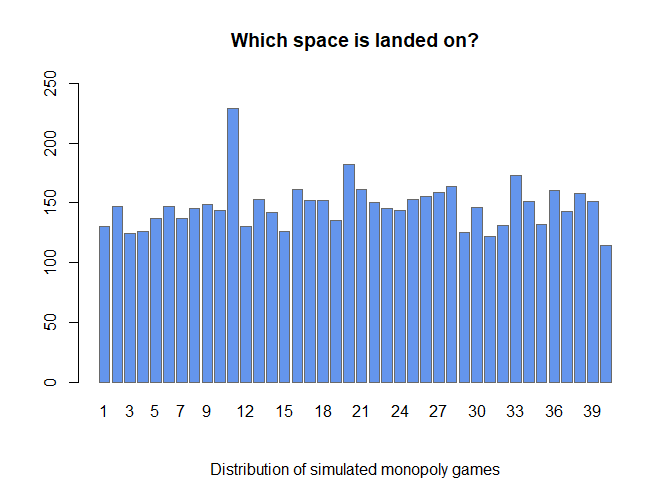
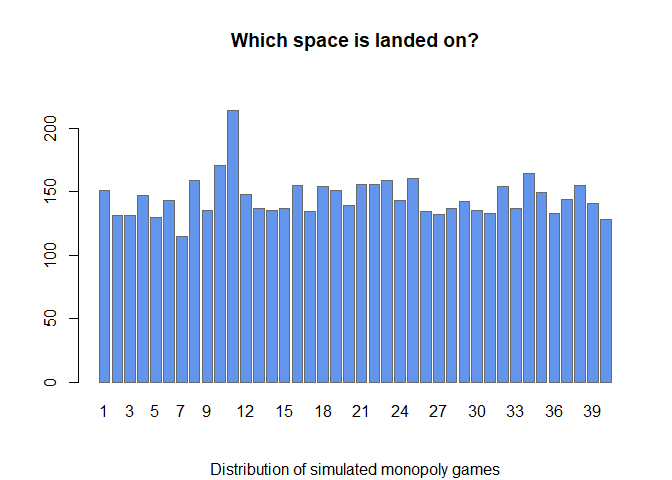
Updated documentation, readme file, description, and  plot function (main title). Should be good to go.
https://github.com/UofUEpiBio/PHS7045-advanced-programming/issues/20#issuecomment-1530505634

diff --git a/src/monopoly.cpp b/src/monopoly.cpp
@@ -21,7 +21,11 @@ using namespace Rcpp;
 //'will only compare the first two dice thrown to see if they are the same.
 //'
 //'The Chance and Community Chest cards are based on the 2008 Classic version of
-//'the game. The board is also based on the US 2008 Classic board.
+//'the game. The board is also based on the US 2008 Classic board, with the fist
+//'integer in the vector representing how many times the "Go" space was landed on,
+//'the second integer representing how many times "Mediterranean Avenue" was
+//'landed on, and so forth until the last integer, which represents "Boardwalk."
+//'
 //'
 //'@name monopoly
 //'

diff --git a/README.md b/README.md
@@ -31,12 +31,12 @@ summary.partyGames(games)
 #> $winner
 #> winner
 #>   1   2   3   4   5   6   7   8   9  10  11  12  13  14  15 
-#> 111 104  83 100  92 104 117 102  97  91 105  99 104  81 110 
+#>  99  89 106 110  97  98  93 107 102 100 111  97 102  75 114 
 #> 
 #> $moves
 #> moves
 #>   -6   -5   -4   -3   -2   -1    1    2    3    4    5    6 
-#> 1885 1879 1870 1845 1938 1859 1943 1870 1855 1843 1854 1859 
+#> 1962 1891 1880 1857 1879 1847 1856 1921 1786 1875 1870 1876 
 #> 
 #> attr(,"class")
 #> [1] "elphSum" "list"
@@ -53,66 +53,83 @@ plot.partyGames(summary.partyGames(games))
 Additionally, you can simulate Monopoly games based on the 2008 US
 version of the game.
 
-Note: We are attempting to integrate OpenMP into the code to facilitate
-parallelization of the code and allow faster responses times for the
-simulation. This is not consistent yet and we recomend that users do not
-attempt to parallelize the code yet.
-
 ``` r
 
 library(partyGames)
 monopolyGame <- simulateMonopoly()
 monopolyGame
 #> [[1]]
-#>  [1] 14  9 11 12 11 20 14 17 14  9 22 13 16 17 12 19 17 14 17 14 16 18 14 14 18
-#> [26] 16 15 15 12 13 14 13 16 20 13 12 16 12 14 16
+#>  [1] 10  8 13 16 12 17 13 11 15 23 22 12 12 14 19 11 11 18 20 17 10 14 16 12 20
+#> [26] 14 11 19 13 15 13 13 19 16 14 12 17 11 14 17
 #> 
 #> [[2]]
-#>  [1] 18 14 13  9 12 21  9 21 15 14 18 10 16 19 11 13 15 14 15 16 17 15 11 13 13
-#> [26] 14 14 13 10 17 17 14 24 18  8 14 12 10 14 13
+#>  [1] 12  8 17 19 15 17 16 16 12 13 24 16 13 16 13 13 13 10 16 15 14 14 16 19  8
+#> [26] 18 15 15 12 16 11 15 11 18 16 13 16 14 19 11
 #> 
 #> [[3]]
-#>  [1] 12 19  9 17 16  9 19  8 16 15 21 13 17 14 15 17 14 16 13 20 22 14 14 11 16
-#> [26] 12 19 18 16 17 10 15 16 10 19 21 11 17 16  9
+#>  [1] 14 17 11 13 13 16 12 19 16 14 19 10 14 12  9 17 15 12 19 13 12 12 17 20 11
+#> [26]  5 18 15 17 13 17 13 12 16 13 11 15 21  7 11
 #> 
 #> [[4]]
-#>  [1] 17 16 16 14  9 15 12 17 15 10 27 11 20 13 11 13 18 15 13 18 14 15 16 19 14
-#> [26] 15 12 12 14 16 13  9 18 16 13 21 10  8 12 13
+#>  [1] 17 13 12 15 15  9 14 15 17 14 28 12 13 19 14 13 21 21 14  6 12 21 16 22 18
+#> [26] 13  8 12 11 12 12 17 20 13 15 16  8 19 13 16
 #> 
 #> [[5]]
-#>  [1] 10 17  7 13 22 15 15 11 17 21 23 20 18 12 10 12 16 16 14 24 18 14 14 19 12
-#> [26] 13 15 22  7 16 11 15  9 14 14 15 20 17 18 12
+#>  [1] 15 16 13 11 12 16  7 18 18 15 25 10 17 13 15 17 14 21  9 14 17 19 10 15 21
+#> [26] 14 13 13 15 14 10 20 12 17 16 14 20 13 14 10
 #> 
 #> [[6]]
-#>  [1] 10 15  9 16 15 15 15  9 14 15 24 12 13 13 14 19 12 16 16 16 16 20  8 12 18
-#> [26] 15 14 15 12 16 10 13 14 14 17 14 13 15 18  8
+#>  [1] 12 16 17 12 12 14  7 19 11 18 22 16 13 15 14 18 13 13 11 13 14 16 15 12 19
+#> [26] 15 15 10 12 15 11 18 10 15 23 10 11 18 15 13
 #> 
 #> [[7]]
-#>  [1] 15 14 14 15 10 10 18 21 14 11 19 10  9 16 13 17 17 13 12 12 19 12 15 12 21
-#> [26] 14 17 14 12 16 13 11 20 20  9 18 11 16 18 11
+#>  [1] 18 14 14 16 18 15  5 15 14 17 19 17 13 19 10 21  8 12 13 15 21 15 25 11 14
+#> [26] 14 10 17 15  9 14 14 15 18 10 17 11 14 15 13
 #> 
 #> [[8]]
-#>  [1] 13 10 14  8 15 15 21 16  8 14 21 14 13 14 12 22  8 16 13 19 16 14 15 16 13
-#> [26] 15 20 18 12 13 11 13 21  9 11 14 22 23 13 12
+#>  [1] 21 11 11 13 11 17 13 17  8 21 16 22 14  7 16 14 16 13 15 15 19 12 18  9 18
+#> [26] 17 14 14 11 11 15 22  9 20 13  8 13 11 13 20
 #> 
 #> [[9]]
-#>  [1] 11 17 23 10 12 16  8 12 23 14 20 12 20 16 14 14 16 11 10 24 12 16 19 17 13
-#> [26] 27 13 12 14  9 15 18 13 16 18 13 12 25 10  9
+#>  [1] 19 15  8 12 11 11 19 16 14 14 21 16 14  7 14 15 10 18 13 14 21 19 10 14 17
+#> [26]  8 15  6 19 17 18 15 11 20 17 13 18 16 21  8
 #> 
 #> [[10]]
-#>  [1] 10 16  8 12 15 11  6 13 13 21 34 15 11  8 14 15 19 21 12 19 11 12 19 11 15
-#> [26] 14 20 25 16 13  8 10 22 14 10 18 16 15 18 11
+#>  [1] 13 13 15 20 11 11  9 13 10 22 18 17 14 13 13 16 13 16 21 17 16 14 16  9 14
+#> [26] 16 13 16 17 13 12  7 18 11 12 19 15 18 10  9
 #> 
 #> attr(,"class")
 #> [1] "monopoly" "list"
 summary.monopoly(monopolyGame)
 #>   1   2   3   4   5   6   7   8   9  10  11  12  13  14  15  16  17  18  19  20 
-#> 130 147 124 126 137 147 137 145 149 144 229 130 153 142 126 161 152 152 135 182 
+#> 151 131 131 147 130 143 115 159 135 171 214 148 137 135 137 155 134 154 151 139 
 #>  21  22  23  24  25  26  27  28  29  30  31  32  33  34  35  36  37  38  39  40 
-#> 161 150 145 144 153 155 159 164 125 146 122 131 173 151 132 160 143 158 151 114 
+#> 156 156 159 143 160 134 132 137 142 135 133 154 137 164 149 133 144 155 141 128 
 #> attr(,"class")
 #> [1] "monoSum" "numeric"
 plot.monopoly(monopolyGame)
 ```
 
 <img src="man/figures/README-unnamed-chunk-2-1.png" width="100%" />
+
+Parallel computing (made possible in this case through Open MP) is also
+possible for this.
+
+``` r
+monoParallel <- simulateMonopoly(numGames = 20, 
+                                 maxTurns = 500, 
+                                 sides    = 6, 
+                                 numDice  = 2, 
+                                 cores    = 3)
+
+summary.monopoly(monoParallel)
+#>   1   2   3   4   5   6   7   8   9  10  11  12  13  14  15  16  17  18  19  20 
+#> 263 291 279 273 254 300 297 279 287 275 428 274 265 298 280 278 295 297 332 296 
+#>  21  22  23  24  25  26  27  28  29  30  31  32  33  34  35  36  37  38  39  40 
+#> 343 312 299 283 302 285 268 320 299 266 293 282 247 301 312 296 278 304 274 280 
+#> attr(,"class")
+#> [1] "monoSum" "numeric"
+plot.monopoly(monoParallel)
+```
+
+<img src="man/figures/README-unnamed-chunk-3-1.png" width="100%" />
